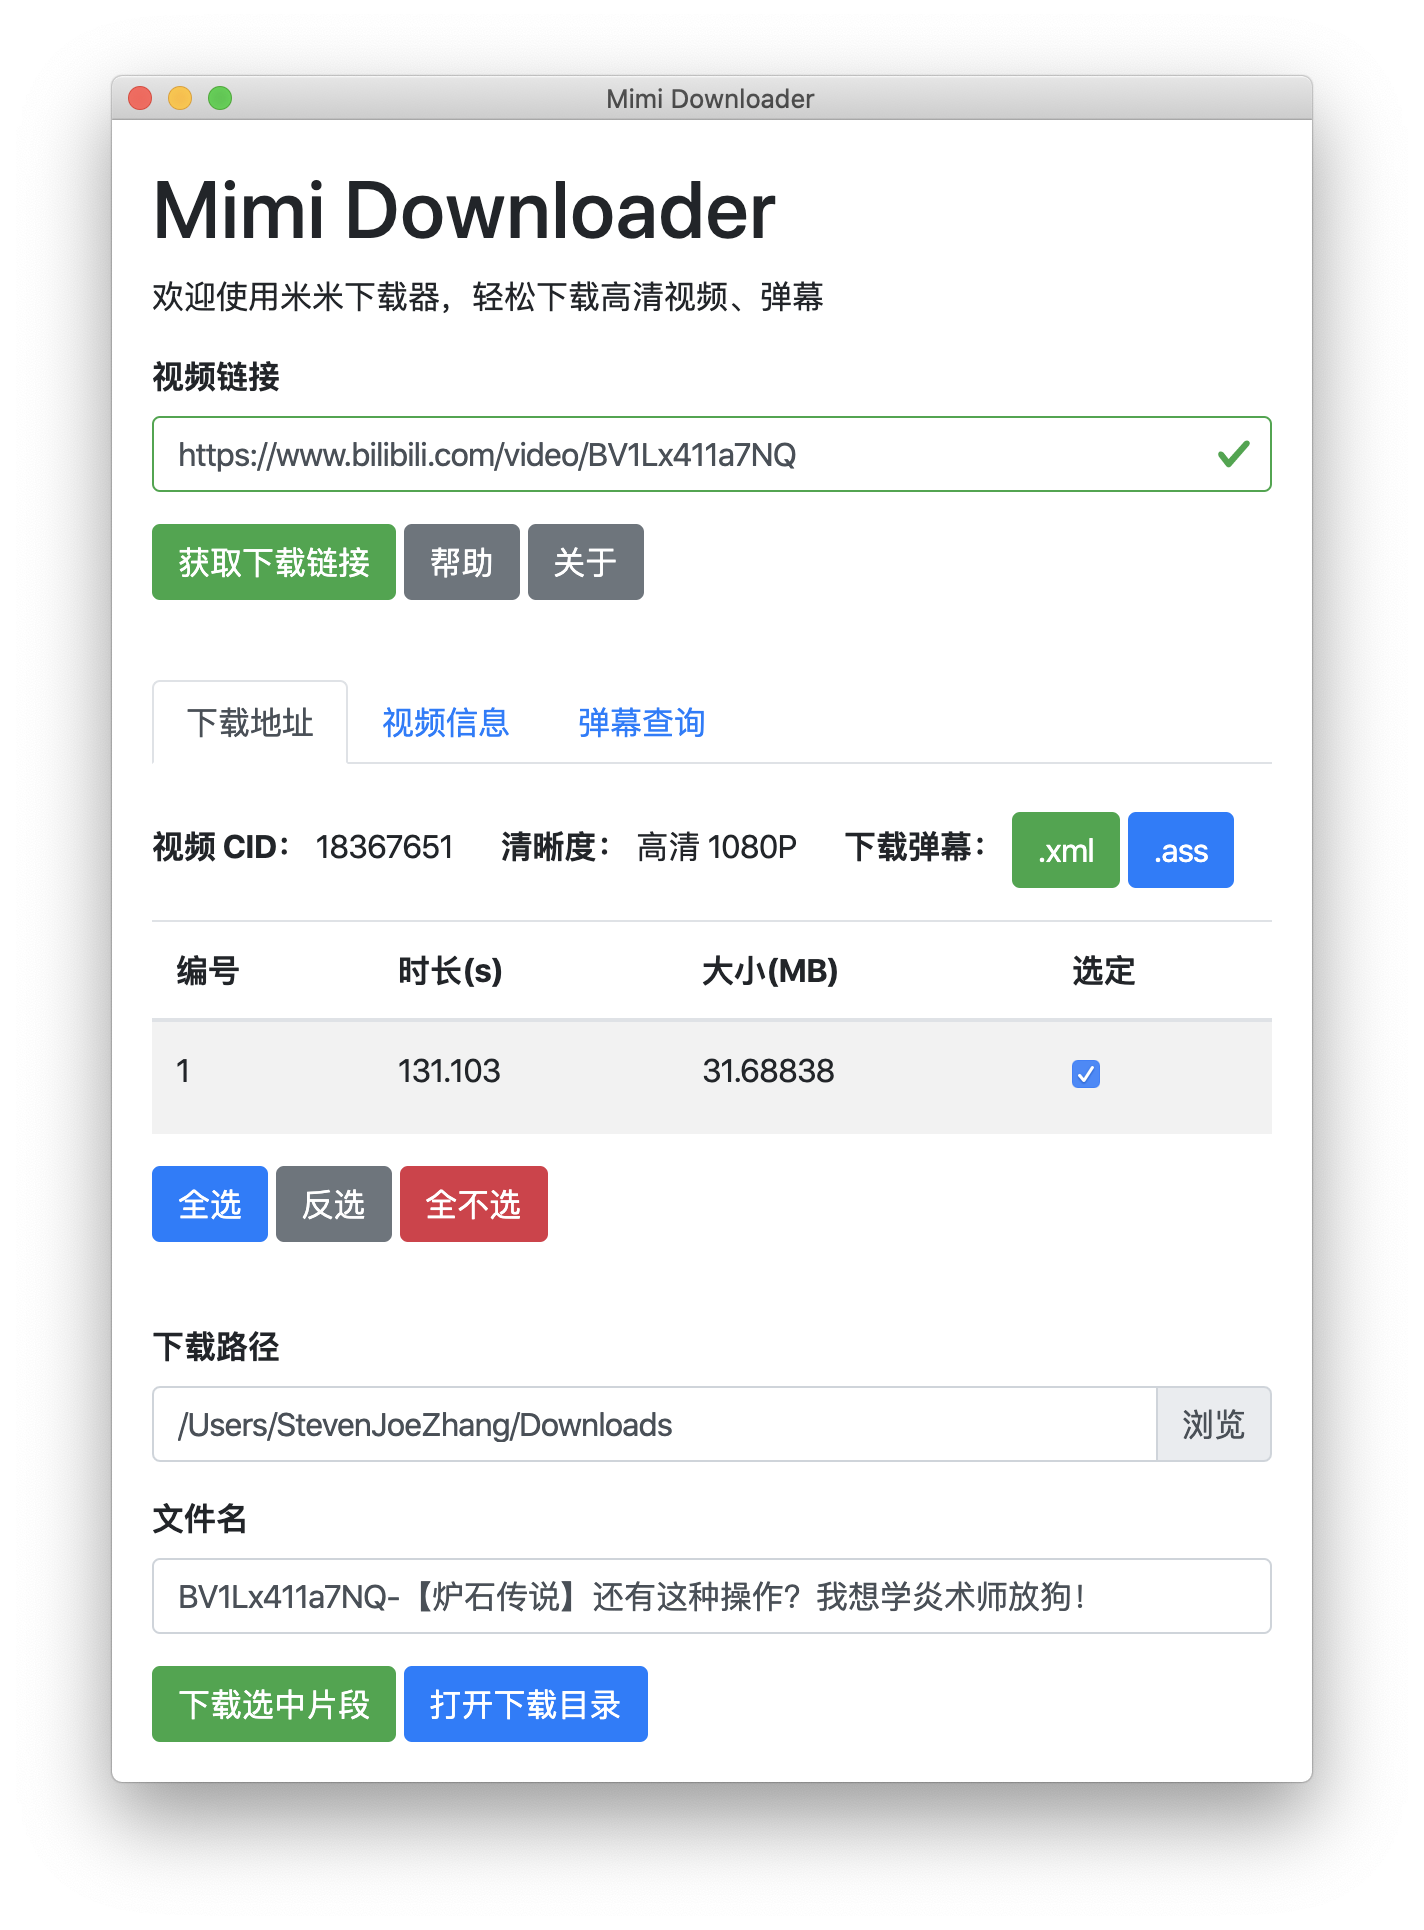
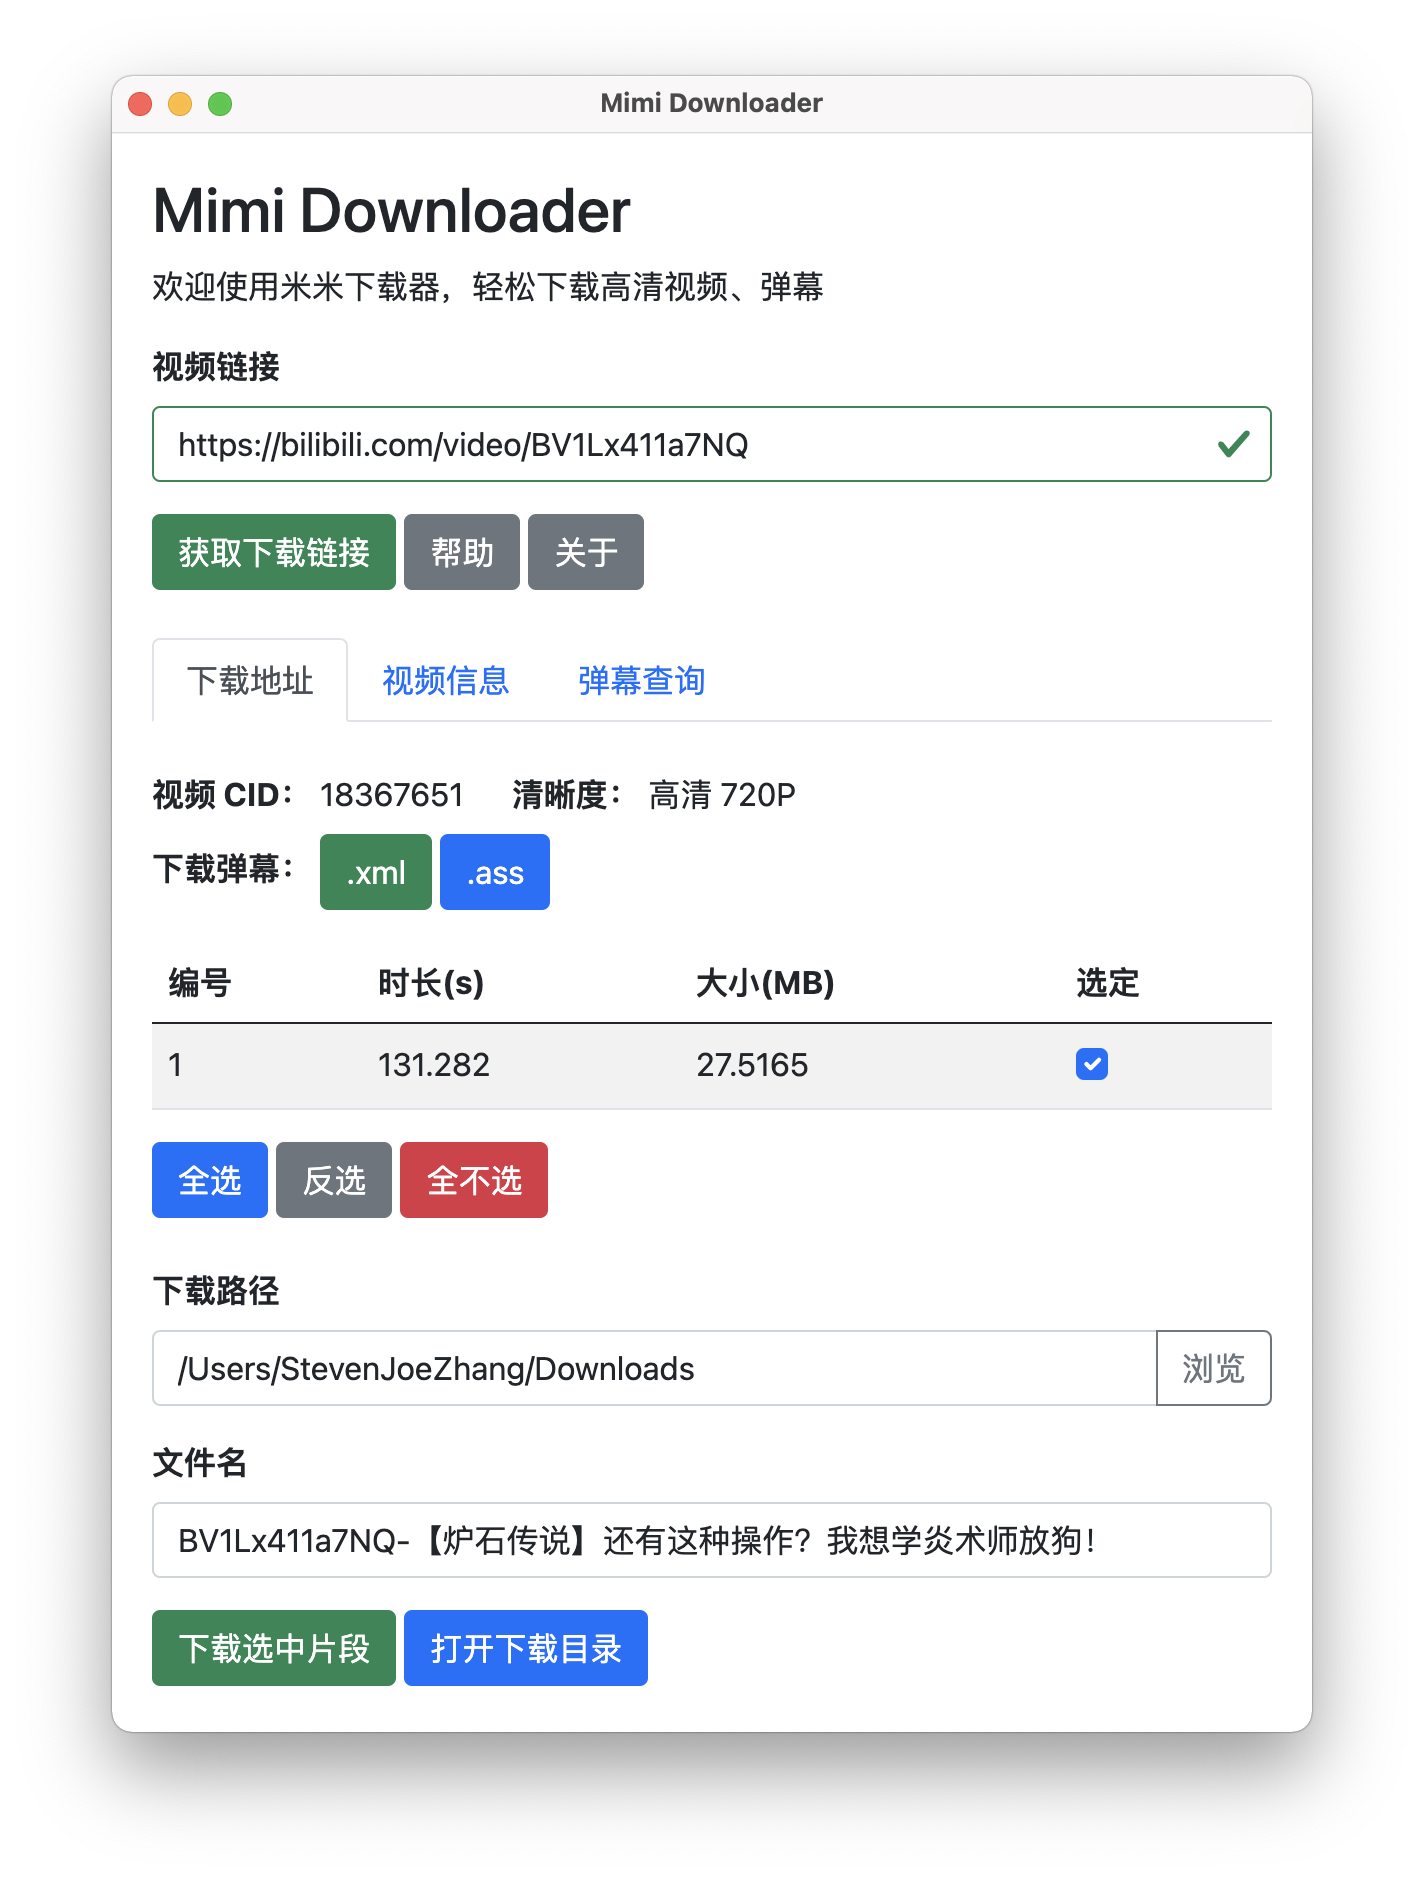
Update screenshot

diff --git a/app/panel.html b/app/panel.html
@@ -7,7 +7,7 @@
 <link rel="stylesheet" href="style.css">
 </head>
 <body>
-<div class="container">
+<div class="container g-0">
 	<h1>Mimi Downloader</h1>
 	<p id="help">欢迎使用米米下载器，轻松下载高清视频、弹幕</p>
 	<div class="mb-3">
